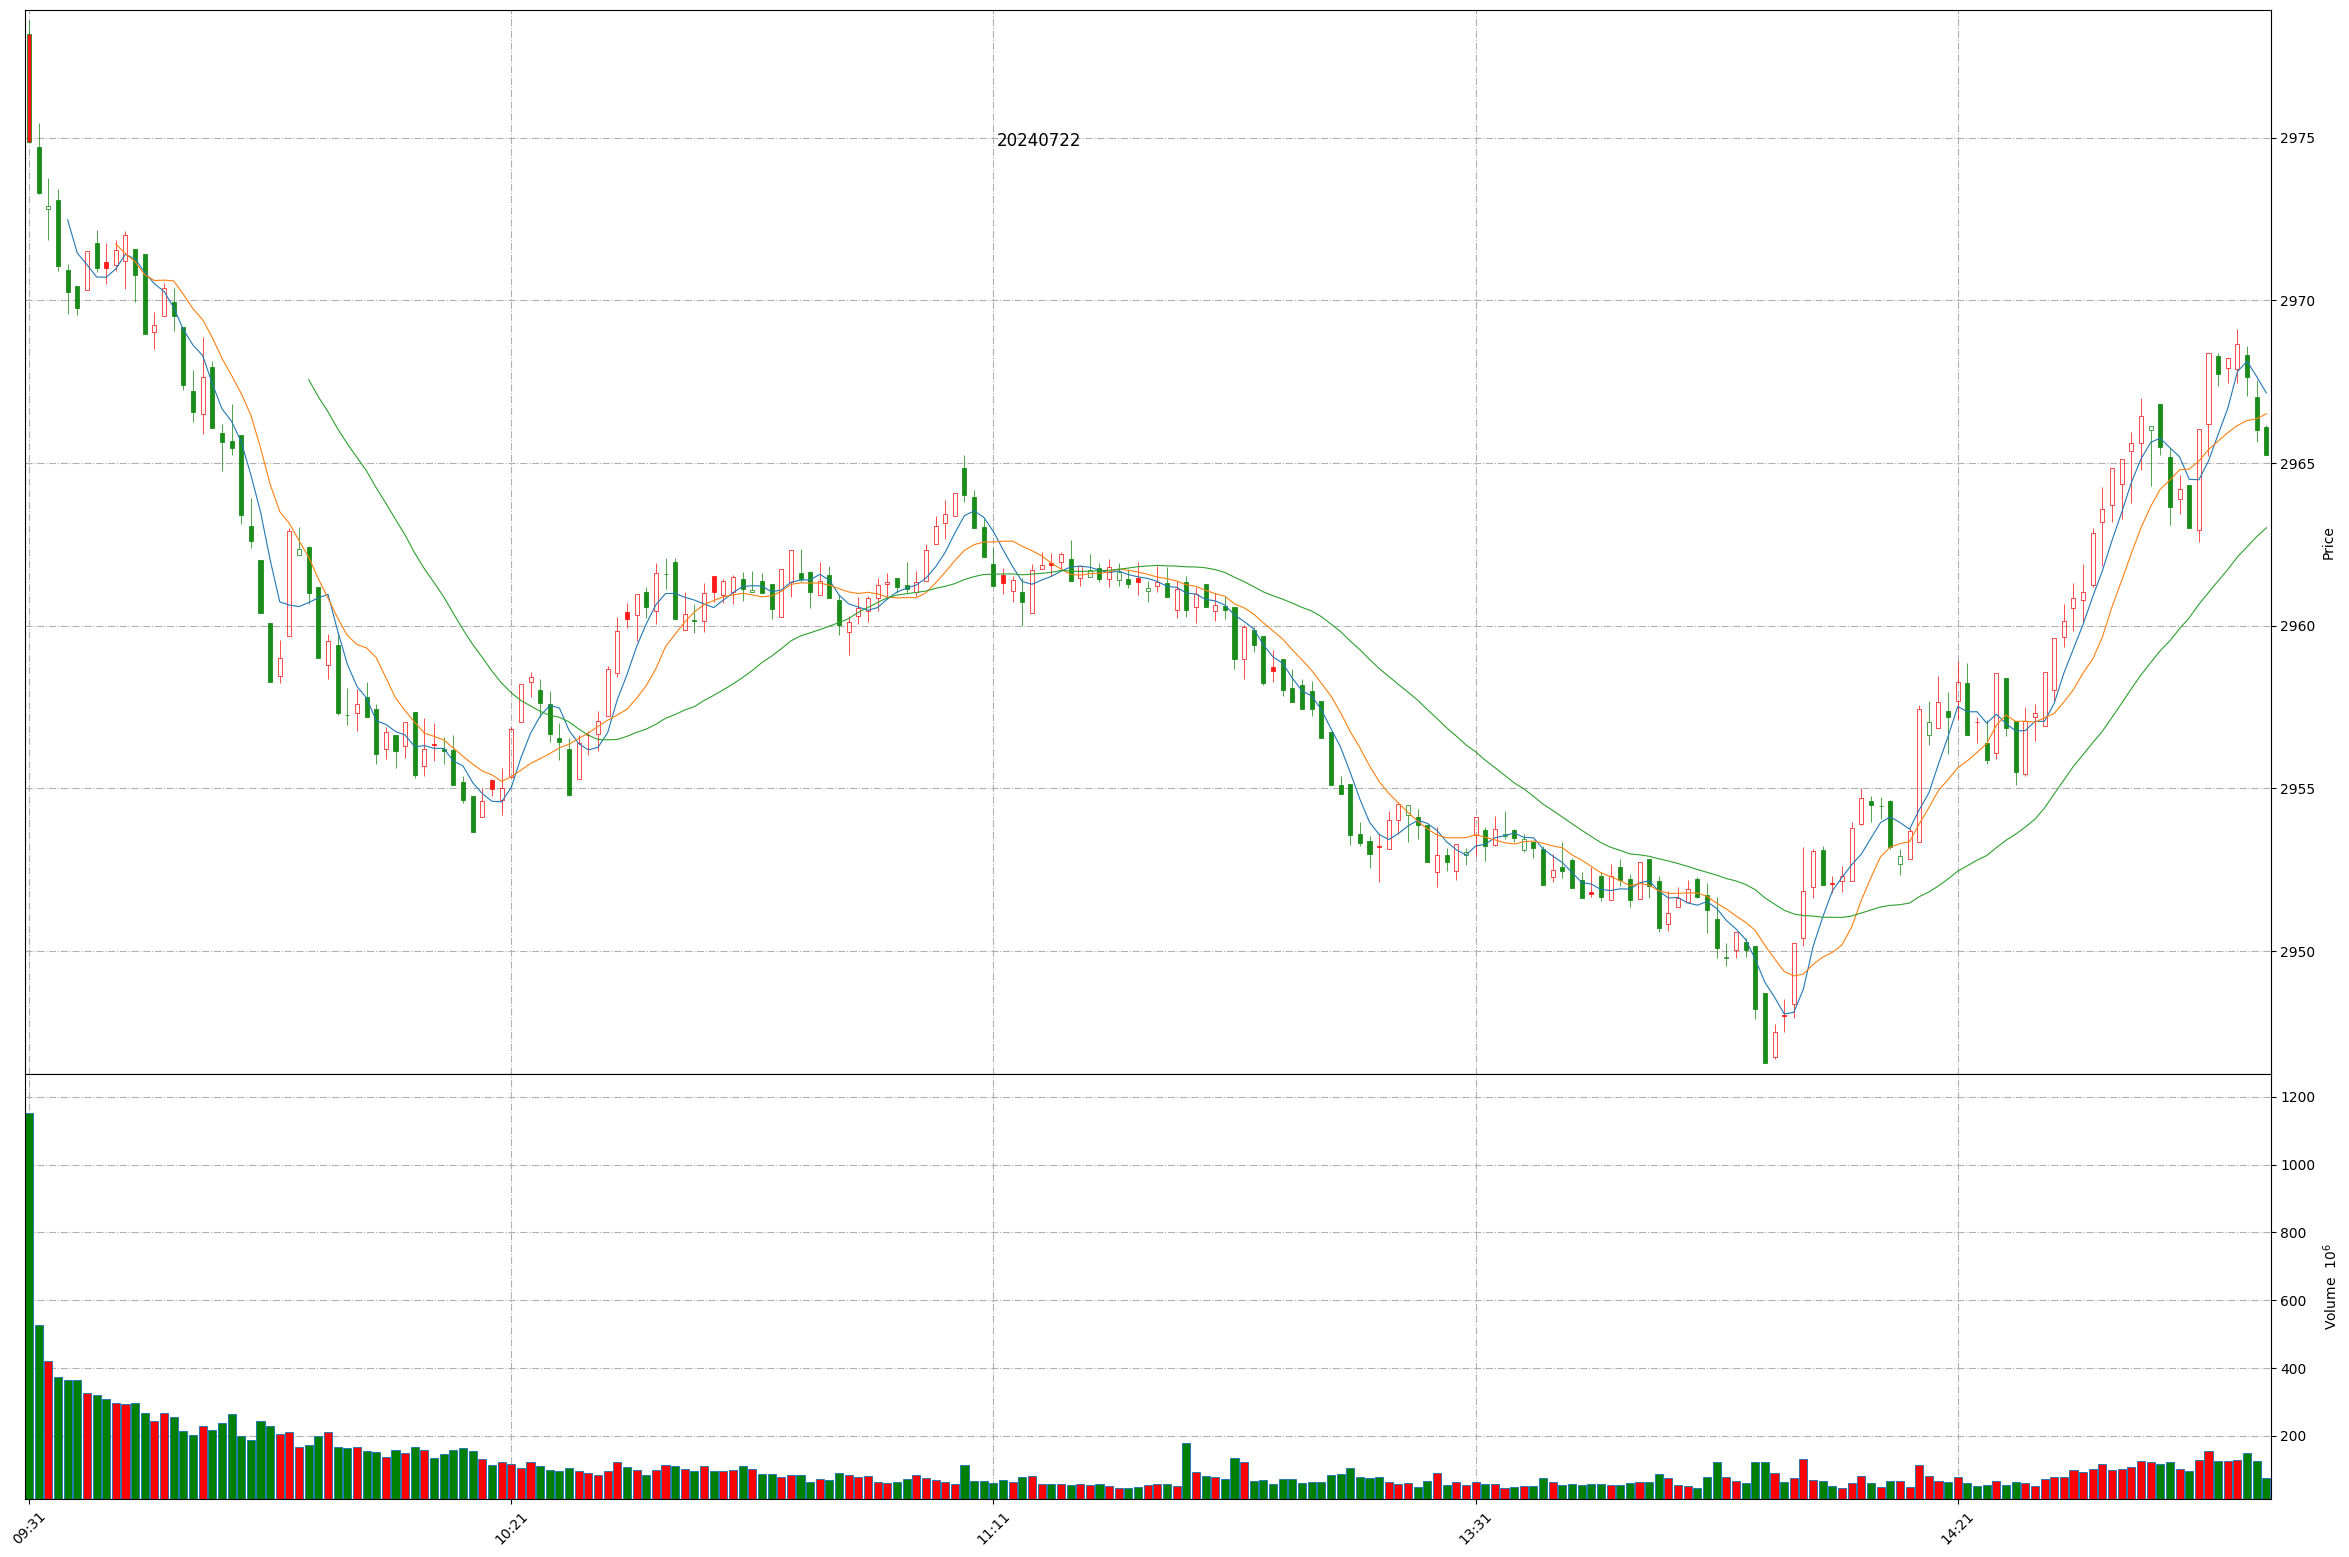
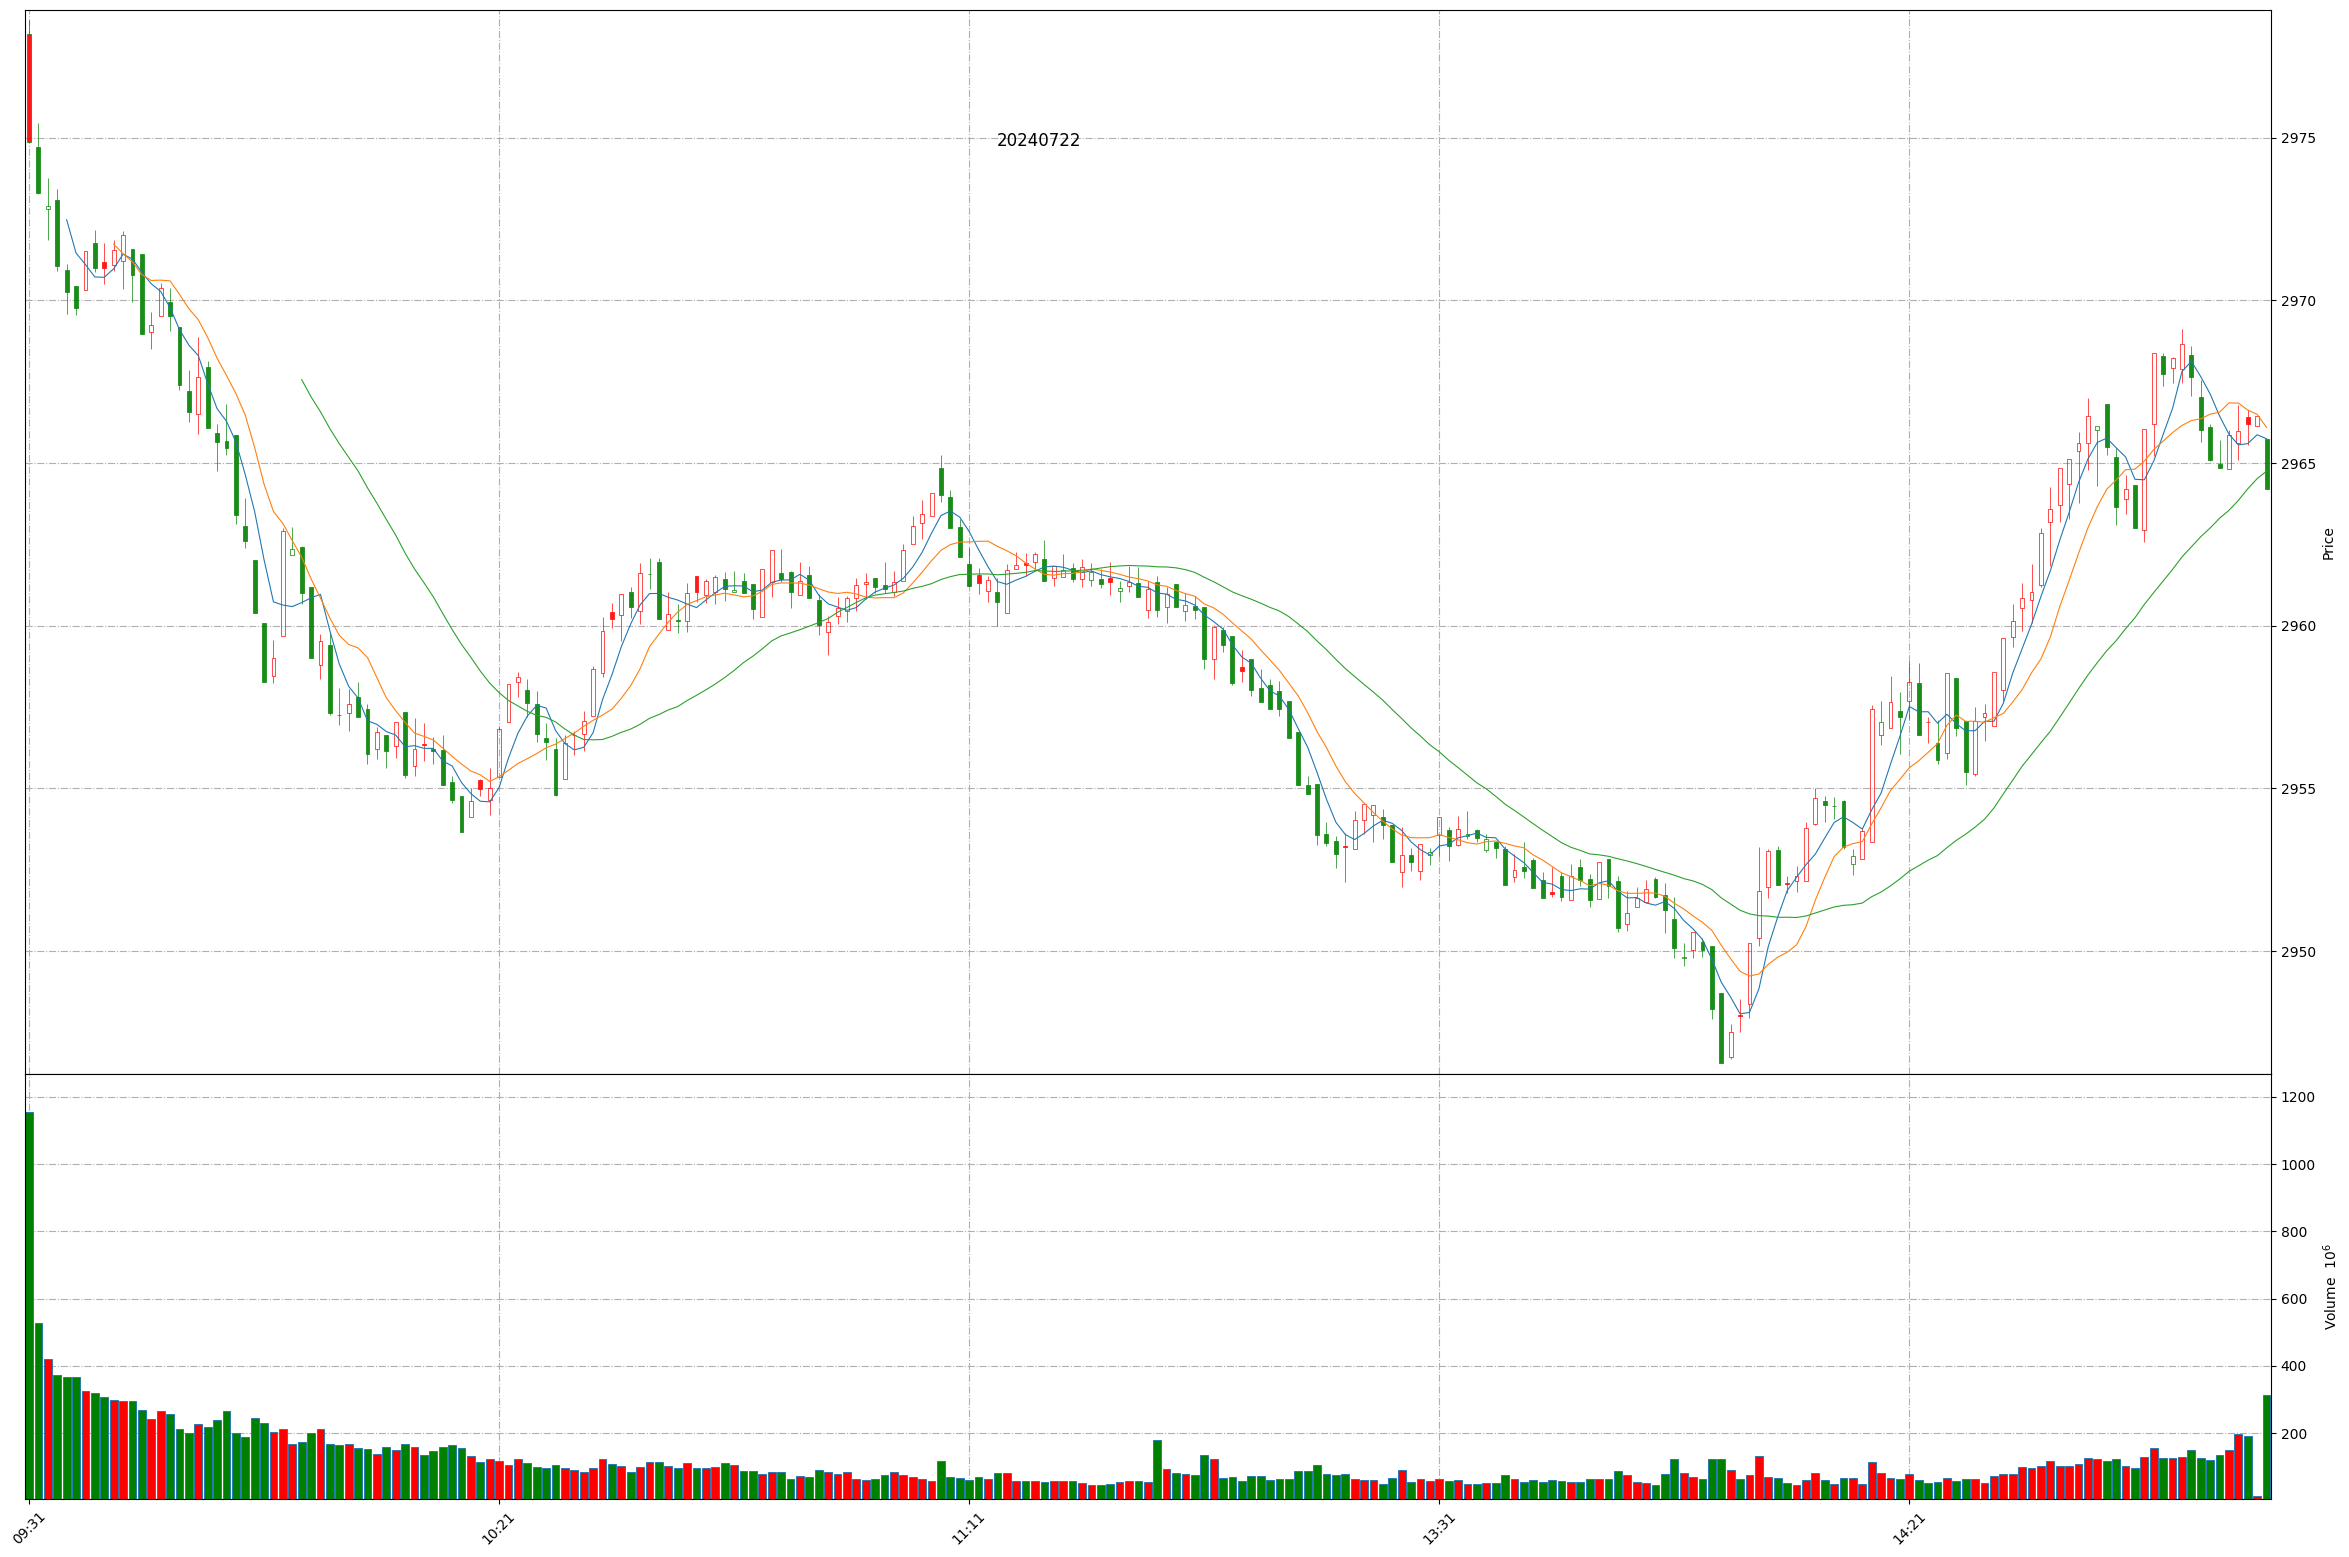
Github action update at 2024-07-22 15:11:43.

diff --git a/README.md b/README.md
@@ -1,11 +1,11 @@
 
 # Daily-A-share-market-quotes 每日 A 股指数（5min 更新）- 20240722
 
-### 上证指数 20240722 14:52
+### 上证指数 20240722 15:11
 ![](./fig/2024/7/20240722-sh000001.png)
 
-### 深证成指 20240722 14:52
+### 深证成指 20240722 15:11
 ![](./fig/2024/7/20240722-sz399001.png)
 
-### 北证50 20240722 14:52
+### 北证50 20240722 15:11
 ![](./fig/2024/7/20240722-bj899050.png)
